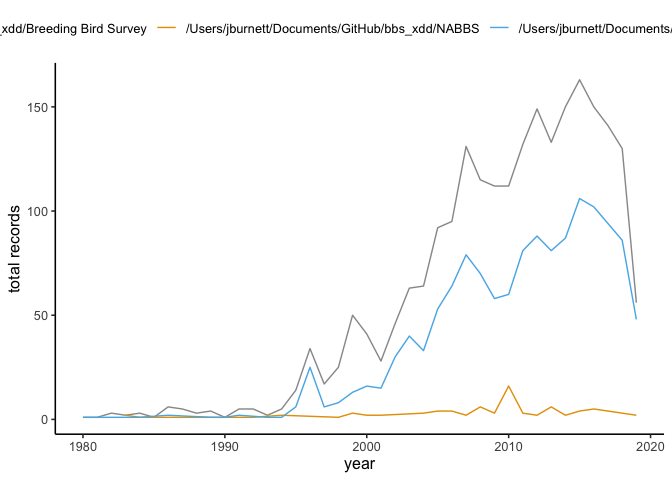
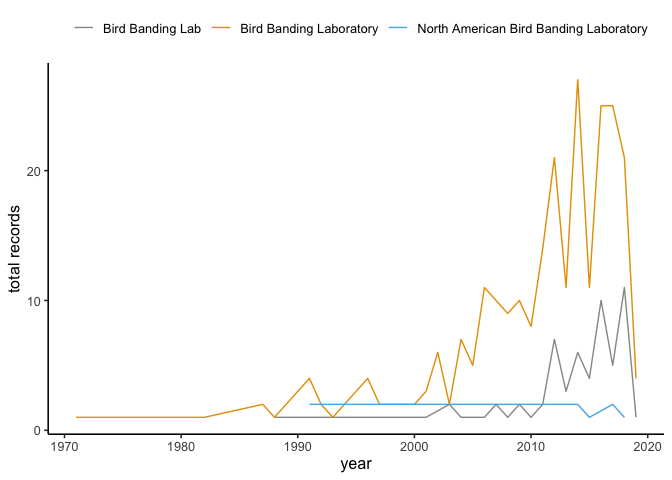
render the readme, updated with the BBL data.

diff --git a/README.md b/README.md
@@ -1,36 +1,42 @@
-Using GeoDeepDive (xDD) to Track North American Breeding Bird Survey
+Using GeoDeepDive (xDD) to Track North American Bird Banding Laboratory
 Citations
 ================
-Last updated: 2019-12-13
+Last updated: 2019-12-16
 
 [![lifecycle](https://img.shields.io/badge/lifecycle-experimental-lightgrey.svg)](https://www.tidyverse.org/lifecycle/#experimental)
 
 ## About
 
 This project seeks to identify publications within which the [USGS North
-American Breeding Bird Survey](https://www.pwrc.usgs.gov/bbs/) has been
-referenced or mentioned. This project uses pre-extracted information
-available via API from the [GeoDeepDive](https://geodeepdive.org)
-infrastructure.
+American Bird Banding
+Laboratory](https://www.usgs.gov/centers/pwrc/science/bird-banding-laboratory)
+has been referenced or mentioned. This project uses pre-extracted
+information available via API from the
+[GeoDeepDive](https://geodeepdive.org) infrastructure.
 
-## Overview of BBS in records available in the GeoDeepDive database.
+## Overview of BBL in records available in the GeoDeepDive database.
 
-We can use various search terms to identify potential uses of the
-[NABBS](https://www.pwrc.usgs.gov/bbs/) data or results in the
-literature. For example, here we found 2487 unique publications which
-used any of the following phrases
-exactly:
+We can use various search terms to identify potential uses of the BBL
+data or results in the literature. For example, here we found 15373
+unique publications which used any of the following phrases exactly.
+However, “BBL” is a common acronym in oil and gas and other fields. We
+can coarsely try to control for this by removing references to “oil” or
+“gas” in the highlights–this results in 11792 unqiue records – this
+still leaves us with a lot of irrelevant publications. For our purposes,
+we will work only with the 319 records associated with the following
+search
+terms:
 
-| Exacts earch phrase                   | Number of unique records in xDD/GDD |
-| ------------------------------------- | ----------------------------------- |
-| “North American Breeding Bird Survey” | 0                                   |
-| “Breeding Bird Survey”                | 0                                   |
-| “NABBS”                               | 0                                   |
+| Exact search phrase                      | Number of unique records in xDD/GDD |
+| ---------------------------------------- | ----------------------------------- |
+| “North American Bird Banding Laboratory” | 8                                   |
 
+<!-- "BBL" |  11559 -->
+
+“Bird Banding Laboratory” | 270
+
+Check out the use of the terms over time:
 ![](README_files/figure-gfm/pubsvtime-1.png)<!-- -->
-
-When we remove the redundancies in the records returned using the
-abovementioned searches,2509 remain.
 
 We can visualize the distribution of records among unique publishers.
 Few publications contain the bulk of the records.
